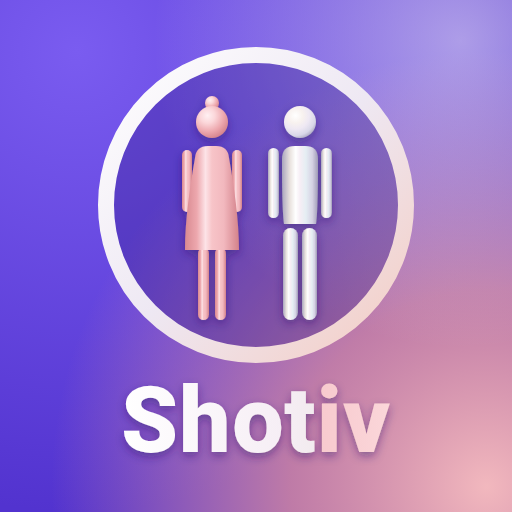
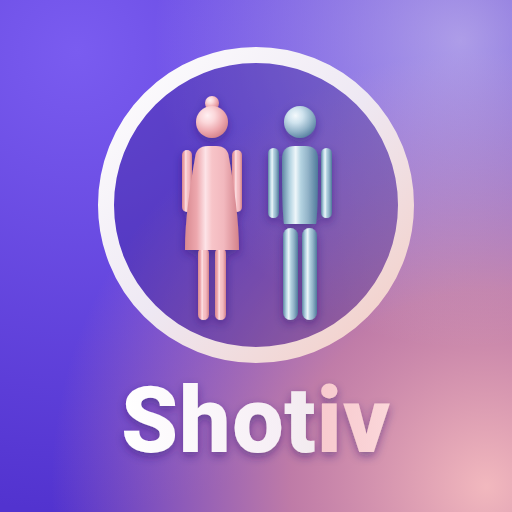
Blue pearl palette for men from the product owner's reference
Colors sampled from the reference pearls (#B4D3E1..#3B5D79). Men's
hero card is now glossy light blue pearl with dark navy text; buttons
use deep pearl blue (#3B5D79). Splash man figure, app icon and the
gain warning use the same blue pearl.

Claude-Session: https://claude.ai/code/session_01APeqoeDRZRvZG1wpRJWPM8

Changed region(s): [[0.5, 0.1875, 0.6562, 0.625]]

diff --git a/index.html b/index.html
@@ -24,7 +24,7 @@
           <circle class="splash-ring" cx="150" cy="150" r="138" fill="none" stroke="#FFFFFF" stroke-width="9" stroke-linecap="round" transform="rotate(-90 150 150)"/>
         </svg>
         <div class="fig3d woman"><svg class="fig-svg" viewBox="0 -6 100 240" width="87" height="209"><defs><linearGradient id="w3-body" x1="0" y1="0" x2="1" y2="0"><stop offset="0" stop-color="#D98990"/><stop offset=".22" stop-color="#EDA8AE"/><stop offset=".38" stop-color="#FDE3E7"/><stop offset=".5" stop-color="#F7C4C8"/><stop offset=".72" stop-color="#F2B8BE"/><stop offset="1" stop-color="#D3818A"/></linearGradient><radialGradient id="w3-head" cx=".36" cy=".3" r=".78"><stop offset="0" stop-color="#FFF0F2"/><stop offset=".3" stop-color="#FBD7DA"/><stop offset=".65" stop-color="#EDA8AE"/><stop offset="1" stop-color="#CF7C86"/></radialGradient><filter id="w3-blur" x="-20%" y="-200%" width="140%" height="500%"><feGaussianBlur stdDeviation="2.4"/></filter></defs><ellipse cx="50" cy="225" rx="42" ry="5" fill="rgba(20,8,70,.38)" filter="url(#w3-blur)"><animate attributeName="rx" values="42;30" calcMode="spline" keyTimes="0;1" keySplines=".65 0 .35 1" begin="0.45s" dur="1.25s" fill="freeze"/></ellipse><rect x="30.0" y="150" width="15" height="72" rx="5.5" fill="url(#w3-body)"><animate attributeName="x" values="30.0;36.0" calcMode="spline" keyTimes="0;1" keySplines=".65 0 .35 1" begin="0.45s" dur="1.25s" fill="freeze"/><animate attributeName="width" values="15;11" calcMode="spline" keyTimes="0;1" keySplines=".65 0 .35 1" begin="0.45s" dur="1.25s" fill="freeze"/></rect><rect x="55.0" y="150" width="15" height="72" rx="5.5" fill="url(#w3-body)"><animate attributeName="x" values="55.0;53.0" calcMode="spline" keyTimes="0;1" keySplines=".65 0 .35 1" begin="0.45s" dur="1.25s" fill="freeze"/><animate attributeName="width" values="15;11" calcMode="spline" keyTimes="0;1" keySplines=".65 0 .35 1" begin="0.45s" dur="1.25s" fill="freeze"/></rect><rect x="5.0" y="52" width="10" height="62" rx="5.0" fill="url(#w3-body)"><animate attributeName="x" values="5.0;20.0" calcMode="spline" keyTimes="0;1" keySplines=".65 0 .35 1" begin="0.45s" dur="1.25s" fill="freeze"/><animate attributeName="width" values="10;10" calcMode="spline" keyTimes="0;1" keySplines=".65 0 .35 1" begin="0.45s" dur="1.25s" fill="freeze"/></rect><rect x="85.0" y="52" width="10" height="62" rx="5.0" fill="url(#w3-body)"><animate attributeName="x" values="85.0;70.0" calcMode="spline" keyTimes="0;1" keySplines=".65 0 .35 1" begin="0.45s" dur="1.25s" fill="freeze"/><animate attributeName="width" values="10;10" calcMode="spline" keyTimes="0;1" keySplines=".65 0 .35 1" begin="0.45s" dur="1.25s" fill="freeze"/></rect><path d="M39.0 48 H61.0 Q73.0 48 74.0 60 C85.0 88 88.0 122 88.0 152 H12.0 C12.0 122 15.0 88 26.0 60 Q27.0 48 39.0 48 Z" fill="url(#w3-body)"><animate attributeName="d" values="M39.0 48 H61.0 Q73.0 48 74.0 60 C85.0 88 88.0 122 88.0 152 H12.0 C12.0 122 15.0 88 26.0 60 Q27.0 48 39.0 48 Z;M46.0 48 H54.0 Q66.0 48 67.0 60 C72.0 88 77.0 122 77.0 152 H23.0 C23.0 122 28.0 88 33.0 60 Q34.0 48 46.0 48 Z" calcMode="spline" keyTimes="0;1" keySplines=".65 0 .35 1" begin="0.45s" dur="1.25s" fill="freeze"/></path><circle cx="50" cy="5" r="7" fill="url(#w3-head)"/><circle cx="50" cy="24" r="16" fill="url(#w3-head)"/></svg></div>
-        <div class="fig3d man"><svg class="fig-svg" viewBox="0 -6 100 240" width="87" height="209"><defs><linearGradient id="m3-body" x1="0" y1="0" x2="1" y2="0"><stop offset="0" stop-color="#A9A5BD"/><stop offset=".22" stop-color="#E9E2DE"/><stop offset=".38" stop-color="#FFFFFF"/><stop offset=".5" stop-color="#F6EEF5"/><stop offset=".66" stop-color="#E5EEF3"/><stop offset=".84" stop-color="#D6D2E4"/><stop offset="1" stop-color="#9F9BB6"/></linearGradient><radialGradient id="m3-head" cx=".36" cy=".3" r=".78"><stop offset="0" stop-color="#FFFFFF"/><stop offset=".3" stop-color="#F8F2EF"/><stop offset=".55" stop-color="#EEE8F3"/><stop offset=".8" stop-color="#D9D8E8"/><stop offset="1" stop-color="#A39FBA"/></radialGradient><filter id="m3-blur" x="-20%" y="-200%" width="140%" height="500%"><feGaussianBlur stdDeviation="2.4"/></filter></defs><ellipse cx="50" cy="225" rx="40" ry="5" fill="rgba(20,8,70,.38)" filter="url(#m3-blur)"><animate attributeName="rx" values="40;27" calcMode="spline" keyTimes="0;1" keySplines=".65 0 .35 1" begin="0.45s" dur="1.25s" fill="freeze"/></ellipse><rect x="27.0" y="130" width="19" height="92" rx="7.5" fill="url(#m3-body)"><animate attributeName="x" values="27.0;33.0" calcMode="spline" keyTimes="0;1" keySplines=".65 0 .35 1" begin="0.45s" dur="1.25s" fill="freeze"/><animate attributeName="width" values="19;15" calcMode="spline" keyTimes="0;1" keySplines=".65 0 .35 1" begin="0.45s" dur="1.25s" fill="freeze"/></rect><rect x="54.0" y="130" width="19" height="92" rx="7.5" fill="url(#m3-body)"><animate attributeName="x" values="54.0;52.0" calcMode="spline" keyTimes="0;1" keySplines=".65 0 .35 1" begin="0.45s" dur="1.25s" fill="freeze"/><animate attributeName="width" values="19;15" calcMode="spline" keyTimes="0;1" keySplines=".65 0 .35 1" begin="0.45s" dur="1.25s" fill="freeze"/></rect><rect x="1.0" y="50" width="11" height="70" rx="5.5" fill="url(#m3-body)"><animate attributeName="x" values="1.0;18.0" calcMode="spline" keyTimes="0;1" keySplines=".65 0 .35 1" begin="0.45s" dur="1.25s" fill="freeze"/><animate attributeName="width" values="11;11" calcMode="spline" keyTimes="0;1" keySplines=".65 0 .35 1" begin="0.45s" dur="1.25s" fill="freeze"/></rect><rect x="88.0" y="50" width="11" height="70" rx="5.5" fill="url(#m3-body)"><animate attributeName="x" values="88.0;71.0" calcMode="spline" keyTimes="0;1" keySplines=".65 0 .35 1" begin="0.45s" dur="1.25s" fill="freeze"/><animate attributeName="width" values="11;11" calcMode="spline" keyTimes="0;1" keySplines=".65 0 .35 1" begin="0.45s" dur="1.25s" fill="freeze"/></rect><path d="M35.0 48 H65.0 Q78.0 48 78.0 61 C85.0 78 85.0 112 76.0 126 H24.0 C15.0 112 15.0 78 22.0 61 Q22.0 48 35.0 48 Z" fill="url(#m3-body)"><animate attributeName="d" values="M35.0 48 H65.0 Q78.0 48 78.0 61 C85.0 78 85.0 112 76.0 126 H24.0 C15.0 112 15.0 78 22.0 61 Q22.0 48 35.0 48 Z;M45.0 48 H55.0 Q68.0 48 68.0 61 C68.0 78 68.0 112 66.0 126 H34.0 C32.0 112 32.0 78 32.0 61 Q32.0 48 45.0 48 Z" calcMode="spline" keyTimes="0;1" keySplines=".65 0 .35 1" begin="0.45s" dur="1.25s" fill="freeze"/></path><circle cx="50" cy="24" r="16" fill="url(#m3-head)"/></svg></div>
+        <div class="fig3d man"><svg class="fig-svg" viewBox="0 -6 100 240" width="87" height="209"><defs><linearGradient id="m3-body" x1="0" y1="0" x2="1" y2="0"><stop offset="0" stop-color="#5E86A3"/><stop offset=".22" stop-color="#B4D3E1"/><stop offset=".38" stop-color="#EEF6FA"/><stop offset=".52" stop-color="#B4D3E1"/><stop offset=".72" stop-color="#92B3C8"/><stop offset="1" stop-color="#4E799B"/></linearGradient><radialGradient id="m3-head" cx=".36" cy=".3" r=".78"><stop offset="0" stop-color="#F4F9FC"/><stop offset=".3" stop-color="#CFE3EE"/><stop offset=".65" stop-color="#92B3C8"/><stop offset="1" stop-color="#4E799B"/></radialGradient><filter id="m3-blur" x="-20%" y="-200%" width="140%" height="500%"><feGaussianBlur stdDeviation="2.4"/></filter></defs><ellipse cx="50" cy="225" rx="40" ry="5" fill="rgba(20,8,70,.38)" filter="url(#m3-blur)"><animate attributeName="rx" values="40;27" calcMode="spline" keyTimes="0;1" keySplines=".65 0 .35 1" begin="0.45s" dur="1.25s" fill="freeze"/></ellipse><rect x="27.0" y="130" width="19" height="92" rx="7.5" fill="url(#m3-body)"><animate attributeName="x" values="27.0;33.0" calcMode="spline" keyTimes="0;1" keySplines=".65 0 .35 1" begin="0.45s" dur="1.25s" fill="freeze"/><animate attributeName="width" values="19;15" calcMode="spline" keyTimes="0;1" keySplines=".65 0 .35 1" begin="0.45s" dur="1.25s" fill="freeze"/></rect><rect x="54.0" y="130" width="19" height="92" rx="7.5" fill="url(#m3-body)"><animate attributeName="x" values="54.0;52.0" calcMode="spline" keyTimes="0;1" keySplines=".65 0 .35 1" begin="0.45s" dur="1.25s" fill="freeze"/><animate attributeName="width" values="19;15" calcMode="spline" keyTimes="0;1" keySplines=".65 0 .35 1" begin="0.45s" dur="1.25s" fill="freeze"/></rect><rect x="1.0" y="50" width="11" height="70" rx="5.5" fill="url(#m3-body)"><animate attributeName="x" values="1.0;18.0" calcMode="spline" keyTimes="0;1" keySplines=".65 0 .35 1" begin="0.45s" dur="1.25s" fill="freeze"/><animate attributeName="width" values="11;11" calcMode="spline" keyTimes="0;1" keySplines=".65 0 .35 1" begin="0.45s" dur="1.25s" fill="freeze"/></rect><rect x="88.0" y="50" width="11" height="70" rx="5.5" fill="url(#m3-body)"><animate attributeName="x" values="88.0;71.0" calcMode="spline" keyTimes="0;1" keySplines=".65 0 .35 1" begin="0.45s" dur="1.25s" fill="freeze"/><animate attributeName="width" values="11;11" calcMode="spline" keyTimes="0;1" keySplines=".65 0 .35 1" begin="0.45s" dur="1.25s" fill="freeze"/></rect><path d="M35.0 48 H65.0 Q78.0 48 78.0 61 C85.0 78 85.0 112 76.0 126 H24.0 C15.0 112 15.0 78 22.0 61 Q22.0 48 35.0 48 Z" fill="url(#m3-body)"><animate attributeName="d" values="M35.0 48 H65.0 Q78.0 48 78.0 61 C85.0 78 85.0 112 76.0 126 H24.0 C15.0 112 15.0 78 22.0 61 Q22.0 48 35.0 48 Z;M45.0 48 H55.0 Q68.0 48 68.0 61 C68.0 78 68.0 112 66.0 126 H34.0 C32.0 112 32.0 78 32.0 61 Q32.0 48 45.0 48 Z" calcMode="spline" keyTimes="0;1" keySplines=".65 0 .35 1" begin="0.45s" dur="1.25s" fill="freeze"/></path><circle cx="50" cy="24" r="16" fill="url(#m3-head)"/></svg></div>
       </div>
     <div class="splash-brand">
       <span class="splash-word">Shot<span class="wm-b">iv</span></span>

diff --git a/style.css b/style.css
@@ -439,8 +439,8 @@ html.text-large #app { zoom: 1.15; }
 /* אזהרה בצבע לפי מגדר */
 .feedback.up.g-female { background: linear-gradient(115deg, #FDE3E7, #F7C4C8 60%, #F2B8BE); color: #5E2531; border-color: #EDA8AE; }
 .feedback.up.g-female .feedback-icon { background: linear-gradient(135deg, #C46F7B, #A8525E); }
-.feedback.up.g-male { background: linear-gradient(135deg, #FFFFFF, #F1ECF6 55%, #E7EEF4); color: #3A3556; border-color: #CFCADF; }
-.feedback.up.g-male .feedback-icon { background: linear-gradient(135deg, #B5B1C9, #7E7A9A); }
+.feedback.up.g-male { background: linear-gradient(115deg, #E6F1F7, #B4D3E1 60%, #92B3C8); color: #1D3550; border-color: #92B3C8; }
+.feedback.up.g-male .feedback-icon { background: linear-gradient(135deg, #6C97B3, #3B5D79); }
 
 /* ערכת צבעים לפי מגדר: אישה = זהב ורוד, גבר = פנינה */
 html.theme-female {
@@ -474,22 +474,23 @@ html.theme-female .feedback.up.g-female { background: linear-gradient(115deg, #F
 html.theme-female .feedback.up.g-female .feedback-icon { background: linear-gradient(135deg, #C46F7B, #A8525E); }
 
 html.theme-male {
-  --accent: #5E5A7A;
-  --accent-deep: #3A3556;
-  --accent-soft: #EEEBF4;
-  --ground: #F8F7FA;
+  --accent: #3B5D79;          /* כחול פנינה עמוק לטקסט וכפתורים (ניגודיות טובה) */
+  --accent-deep: #24405A;
+  --accent-soft: #E3EEF5;
+  --ground: #F6F9FB;
 }
-html.theme-male .btn.primary {
-  background: linear-gradient(135deg, #77739A 0%, #5E5A7A 50%, #4A4664 100%);
-}
+html.theme-male .btn.primary { background: linear-gradient(135deg, #4E799B 0%, #3B5D79 55%, #2E4C66 100%); }
+/* הכרטיס הראשי בכחול פנינה מבריק, לפי דוגמת הפנינים */
 html.theme-male .next-shot {
-  background: linear-gradient(135deg, #FFFFFF 0%, #F3EEF6 40%, #E9EEF4 70%, #DCD8E8 100%);
-  color: #2F2B48;
-  border: 1px solid #DCD7E8;
-  box-shadow: 0 12px 26px -16px rgba(74, 70, 100, .55);
+  background: linear-gradient(115deg,
+    #92B3C8 0%, #B4D3E1 16%, #E6F1F7 27%, #B4D3E1 38%,
+    #9DBDD0 52%, #DCEBF3 64%, #A9C8DA 78%, #82A1B5 100%);
+  color: #1D3550;
+  border: 1px solid #B9D2E0;
+  box-shadow: 0 12px 26px -16px rgba(59, 93, 121, .6);
 }
-html.theme-male .next-shot .label-light { opacity: 1; color: #4A4664; }
-html.theme-male .next-shot .btn.light { background: linear-gradient(135deg, #77739A, #5E5A7A); color: #FFFFFF; }
-html.theme-male .next-shot .last-shot { color: #3A3556; }
-html.theme-male .wordmark { color: #5E5A7A; }
-html.theme-male .wordmark .wm-b { color: #A39FBA; }
+html.theme-male .next-shot .label-light { opacity: 1; color: #24405A; }
+html.theme-male .next-shot .btn.light { background: linear-gradient(135deg, #4E799B, #3B5D79); color: #FFFFFF; }
+html.theme-male .next-shot .last-shot { color: #1D3550; }
+html.theme-male .wordmark { color: #3B5D79; }
+html.theme-male .wordmark .wm-b { color: #6C97B3; }

diff --git a/app.js b/app.js
@@ -361,7 +361,7 @@ function svgEl(tag, attrs) {
 function warnColor(data) {
   const g = data.profile.gender;
   if (g === 'female') return '#D9818B'; // זהב ורוד
-  if (g === 'male') return '#8C88A6';   // פנינה (גוון כסוף כדי שייראה על רקע לבן)
+  if (g === 'male') return '#5D88A8';   // כחול פנינה
   return '#E07A2E';
 }
 
@@ -729,7 +729,7 @@ function downloadCalendar(data) {
   toast('פתח את הקובץ כדי להוסיף ליומן');
 }
 
-const THEME_COLORS = { female: '#EDA8AE', male: '#5E5A7A' };
+const THEME_COLORS = { female: '#EDA8AE', male: '#82A1B5' };
 function applyTheme(gender) {
   const root = document.documentElement;
   root.classList.toggle('theme-female', gender === 'female');

diff --git a/sw.js b/sw.js
@@ -1,6 +1,6 @@
 // Service Worker: שומר את קבצי האפליקציה כדי שתעבוד גם בלי אינטרנט.
 // בכל שינוי בקבצים מעלים את מספר הגרסה, כדי שהטלפון יוריד את החדשים.
-const CACHE = 'shotiv-v23';
+const CACHE = 'shotiv-v24';
 const FILES = [
   './',
   'index.html',
